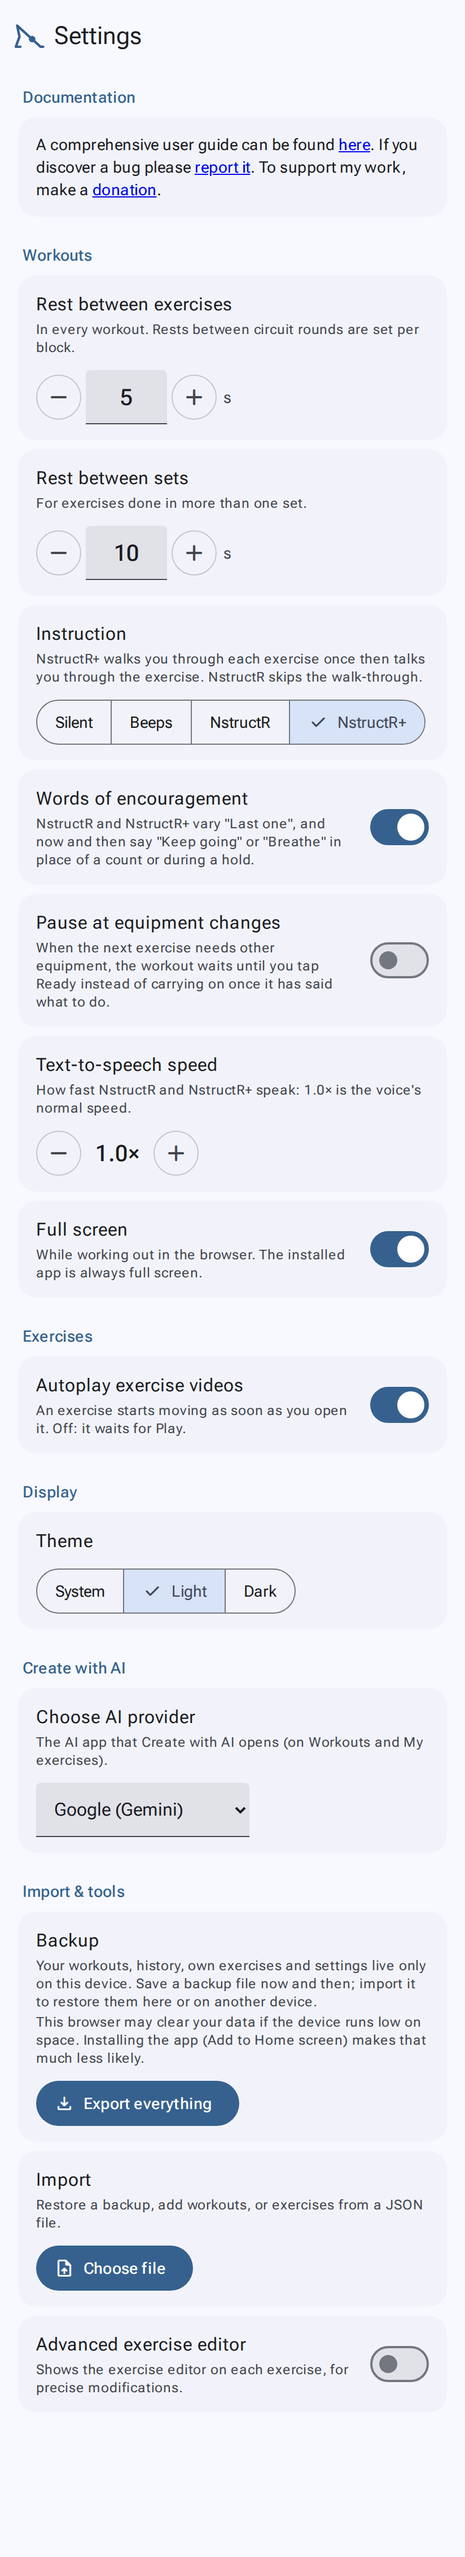
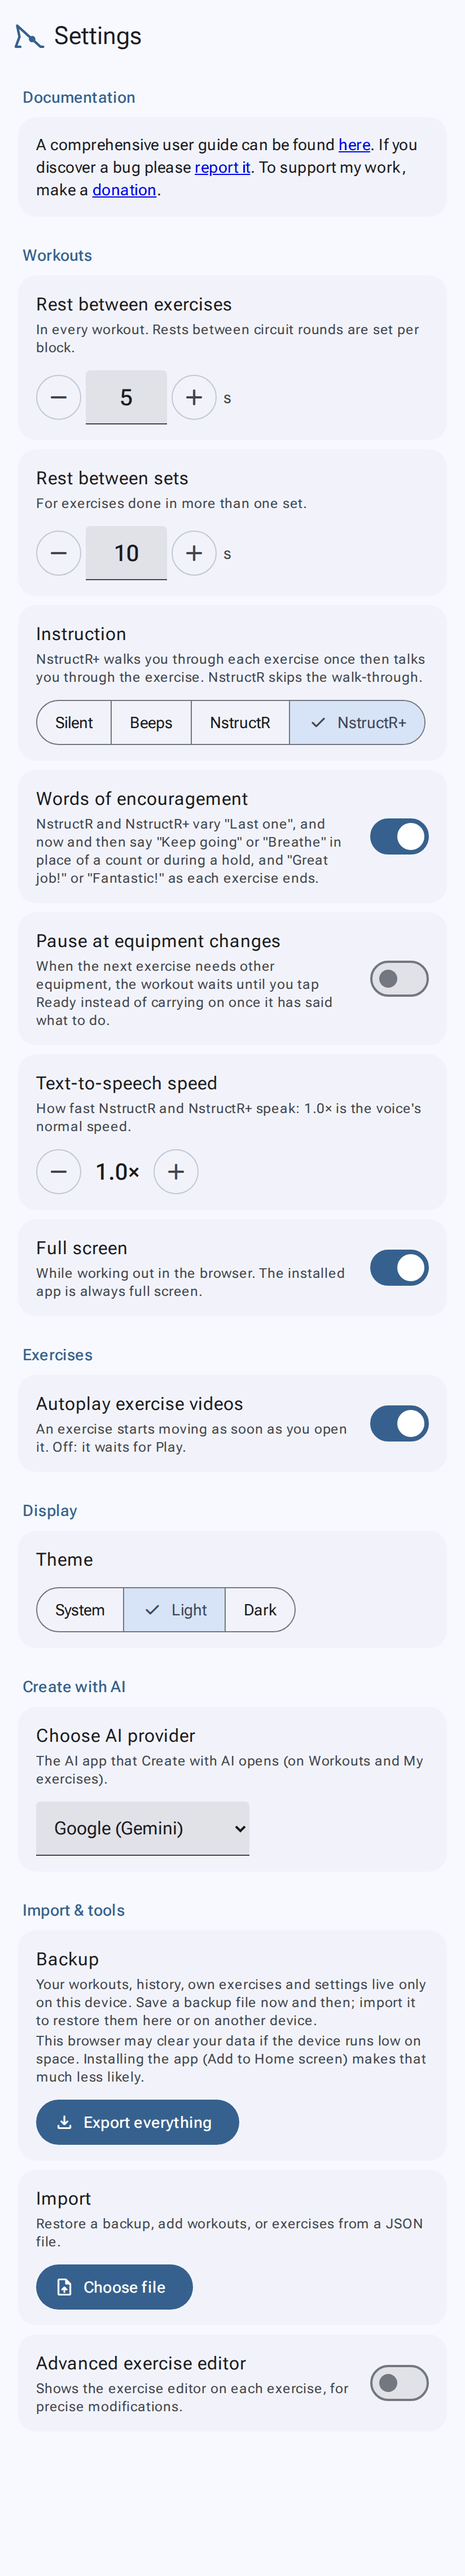
Words of encouragement: a finished phrase as each set ends
With words of encouragement on (NstructR / NstructR+), when a set's (or side's) last
animation is done and before the rest or the move to what's next: one of Great job! /
Fantastic! / Keep it up! / Finished! ("Last one. … Finished!"), never the same twice in
a row. Settings help text, wiki, HANDOFF, settings screenshot; encouragement.py checks
the phrase comes after the plan ends, and none when off.

Claude-Session: https://claude.ai/code/session_0133kyx5MPf8aRU2sQwm2BG7

diff --git a/src/body.html b/src/body.html
@@ -57,7 +57,7 @@
             <button class="icon-btn stateful" data-rest-key="sets" data-rest-delta="1" aria-label="More rest between sets"><span class="icon">add</span></button><span class="unit" aria-hidden="true">s</span></span></div>
         <div class="setting"><div class="txt"><span class="body-large">Instruction</span><span class="body-small muted">NstructR+ walks you through each exercise once then talks you through the exercise. NstructR skips the walk-through.</span></div>
           <div class="segmented" id="setSound" role="group" aria-label="Instruction"></div></div>
-        <label class="setting" id="setEncourageRow"><span class="txt"><span class="body-large">Words of encouragement</span><span class="body-small muted">NstructR and NstructR+ vary "Last one", and now and then say "Keep going" or "Breathe" in place of a count or during a hold.</span></span>
+        <label class="setting" id="setEncourageRow"><span class="txt"><span class="body-large">Words of encouragement</span><span class="body-small muted">NstructR and NstructR+ vary "Last one", and now and then say "Keep going" or "Breathe" in place of a count or during a hold, and "Great job!" or "Fantastic!" as each exercise ends.</span></span>
           <input type="checkbox" class="switch" id="setEncourage"></label>
         <label class="setting" id="setEquipPauseRow"><span class="txt"><span class="body-large">Pause at equipment changes</span><span class="body-small muted">When the next exercise needs other equipment, the workout waits until you tap Ready instead of carrying on once it has said what to do.</span></span>
           <input type="checkbox" class="switch" id="setEquipPause"></label>

diff --git a/src/app/4-workouts.js b/src/app/4-workouts.js
@@ -925,10 +925,11 @@ function runCurrent(announce) {
 }
 /* NstructR's and NstructR+'s words: "Ready… Begin." before the count (it starts at "1"; Oct 2026), varied when words of
    encouragement are on: a random "Last one", and now and then a word of encouragement in place of a count (never the
-   first or last) or of an alternating rep's "and", or every 10 s of a hold (never at halfway or in the last 10 s).
+   first or last) or of an alternating rep's "and", or every 10 s of a hold (never at halfway or in the last 10 s), and
+   a finished phrase as each set (and side) ends ("Last one. Finished!"; Oct 2026).
    WP.random can be replaced (tests). */
 const READY_BEGIN = 'Ready… Begin.';
-const COACH_WORDS = { last: ['Last one', 'One more', 'Last rep'], cheer: ['Good', 'Keep going', 'Breathe', 'Doing great'] };
+const COACH_WORDS = { done: ['Great job!', 'Fantastic!', 'Keep it up!', 'Finished!'], last: ['Last one', 'One more', 'Last rep'], cheer: ['Good', 'Keep going', 'Breathe', 'Doing great'] };
 const coachRandom = () => (WP.random || Math.random)();
 // a word isn't picked twice in a row for the same moment ("Good. Breathe. Good.", never "Good. Good.")
 const COACH_LAST = {};
@@ -965,6 +966,7 @@ function speakGuided(text) {
 }
 function onWorkEnd() {
   const cur = current(); if (!cur) return;
+  if (encourageOn() && (WK.sound === 'voice' || WK.sound === 'coach')) say(coachWord('done'));
   const segs = itemSegments(cur.item);
   if (WP.seg < segs.length - 1) { WP.seg++; beep(660, 160); return runCurrent(true); }
   WP.seg = 0;

diff --git a/tools/e2e/encouragement.py b/tools/e2e/encouragement.py
@@ -5,6 +5,8 @@ from playwright.async_api import async_playwright
 # NstructR's and NstructR+'s words of encouragement (Settings > Instruction > NstructR or NstructR+ > Words of encouragement, on at first):
 # the count starts at "1" (after "Ready… Begin.", never varied; Oct 2026), "Last one" from its synonyms; a count (never the first or last) replaced 20% of the time, 10% for the
 # rep after one that was (until one isn't); during a hold, every 10 s a 40% chance, never at halfway or in the last 10 s.
+# As each set (and side) ends, a finished phrase: Great job! / Fantastic! / Keep it up! / Finished! (on only).
+# As each set (and side) ends, after its last animation: Great job! / Fantastic! / Keep it up! / Finished! (on only).
 # An alternating rep's other half says "and" ("1 and 2 and 3"), which a cheer can replace too.
 # A word is never the same as the last one picked for that moment. Off: the plain words. WP.random is stubbed.
 SAY = "window.SAID = []; say = t => { if (WK.sound === 'voice' || WK.sound === 'coach') SAID.push(t); return Promise.resolve(); }; renderWpCount = renderWpCount;"
@@ -55,5 +57,25 @@ async def main():
         await pg.evaluate("setPref(ENCOURAGE_KEY, 'off')")
         print('off: hold               ', await hold(0), '<- Halfway and 10 seconds only')
         print('off: reps               ', await reps('[0.05]'), '<- 1, numbers, Last one')
+        # a finished phrase as each set (and side) ends, on only: "Last one. Finished!"
+        async def done(on):
+            await pg.evaluate(f"""(() => {{ hush(); WP.phase = 'done'; setPref(ENCOURAGE_KEY, '{on}'); WP.random = () => 0.5; SAID.length = 0;
+              WK.list = WK.list.filter(w => w.id !== 'd'); WK.list.push({{ id: 'd', name: 'D', blocks: [{{ id: 'b', name: 'B', items: [{{ ...newItem(exById('core-dead-bug')), reps: 2, sides: 'both' }}] }}] }});
+              saveWorkouts(); startWorkout(wkById('d'), 0); S.speed = 20; }})()""")
+            await pg.wait_for_function("WP.phase === 'done'", timeout=60000)
+            return await pg.evaluate("SAID.filter(t => !/^(Ready|Dead Bug|[0-9]|and$)/.test(t))")
+        print('finished phrase, on     ', await done('on'), "<- ['Last …', 'Great job!' / 'Fantastic!' / 'Keep it up!' / 'Finished!', 'Switch sides…', 'Last …', another one, 'Workout complete. Well done.']")
+        print('finished phrase, off    ', await done('off'), "<- no phrase: ['Last one', 'Switch sides…', 'Last one', 'Workout complete. Well done.']")
+        # a finished phrase as each set (and side) ends: when its last animation is over, before any move to what's next
+        # (on only): "Last one. … Finished!"
+        async def done(on):
+            await pg.evaluate(f"""(() => {{ hush(); WP.phase = 'done'; setPref(ENCOURAGE_KEY, '{on}'); WP.random = () => 0.5; SAID.length = 0;
+              const keep = say; window.WHEN = []; say = (t, o) => {{ WHEN.push([t, S.ex && S.ex.id, S.idx, S.resolved.length, S.planDone, WP.phase]); return keep(t, o); }};
+              WK.list = WK.list.filter(w => w.id !== 'd'); WK.list.push({{ id: 'd', name: 'D', blocks: [{{ id: 'b', name: 'B', items: [{{ ...newItem(exById('core-dead-bug')), reps: 2, sides: 'both' }}] }}] }});
+              saveWorkouts(); startWorkout(wkById('d'), 0); S.speed = 20; }})()""")
+            await pg.wait_for_function("WP.phase === 'done'", timeout=60000)
+            return await pg.evaluate("WHEN.filter(w => /!$/.test(w[0])).map(w => [w[0], 'plan over: ' + (w[4] && w[2] === w[3] - 1)])")
+        print('finished phrase, on     ', await done('on'), "<- 2 of Great job! / Fantastic! / Keep it up! / Finished!, each 'plan over: True' (after the last animation)")
+        print('finished phrase, off    ', await done('off'), "<- [] (Workout complete. Well done. only)")
         print('errors', errs); await b.close()
 asyncio.run(main())

diff --git a/HANDOFF.md b/HANDOFF.md
@@ -1014,7 +1014,7 @@ the app fills in the `device` field (user agent, screen size, installed app or b
 | `nstructr-exmute-v1` | the exercise page's spoken cues muted unless `"off"` (default muted since Sep 2026; overlay Mute toggle; the voice also needs Sound = NstructR/NstructR+) |
 | `nstructr-group-collections-v1` | `"on"`: the Exercises tab groups All collections by collection; otherwise one A–Z list (default since Sep 2026; the tab's own switch) |
 | `nstructr-speech-rate-v1` | text-to-speech speed, 0.5–3 (steps of 0.1; default 1): `SpeechSynthesisUtterance.rate` for NstructR and NstructR+ (Settings > Workouts, under Instruction; in the backup's `settings.speechRate`) |
-| `nstructr-encourage-v1` | NstructR's and NstructR+'s words of encouragement, `on`/`off` (default on; Settings > Workouts, under Instruction, shown with NstructR and NstructR+ (NstructR+ only until Oct 2026); `COACH_WORDS` in `src/app/4-workouts.js`: synonyms for Last one (rep 1 is always "1", after "Ready… Begin."; Oct 2026), a cheer for 20% of middle counts and of an alternating rep's "and" (the other side's half: "1 and 2 and 3", Oct 2026) (10% for the rep after one that cheered, until one doesn't: `repCheer()`, `WP.cheered`) and 40% of a hold's 10-second marks, not near halfway or in the last 10 s; never the word picked last time for the same moment (`COACH_LAST`); the backup's `settings.encourage`) |
+| `nstructr-encourage-v1` | NstructR's and NstructR+'s words of encouragement, `on`/`off` (default on; Settings > Workouts, under Instruction, shown with NstructR and NstructR+ (NstructR+ only until Oct 2026); `COACH_WORDS` in `src/app/4-workouts.js`: synonyms for Last one (rep 1 is always "1", after "Ready… Begin."; Oct 2026), a cheer for 20% of middle counts and of an alternating rep's "and" (the other side's half: "1 and 2 and 3", Oct 2026); as each set and side ends (`onWorkEnd`: its last animation done, before the rest or the move on), a finished phrase, `done`: Great job! / Fantastic! / Keep it up! / Finished! (on only, Oct 2026) (10% for the rep after one that cheered, until one doesn't: `repCheer()`, `WP.cheered`) and 40% of a hold's 10-second marks, not near halfway or in the last 10 s; never the word picked last time for the same moment (`COACH_LAST`); the backup's `settings.encourage`) |
 | `nstructr-equip-pause-v1` | "Pause at equipment changes", `on`/`off` (default off; Settings > Workouts, under Words of encouragement; the backup's `settings.equipPause`): at an equipment change, and at the workout title card, the rest waits for Ready instead of counting down (§8.3c) |
 | `nstructr-equip-time-v1` | retired (Oct 2026): Equipment transition time, a setting for a day; now the time is what it takes to say what to do (§8.3c). A stored value is ignored |
 | `nstructr-autoplay-v1` | `"off"`: exercises wait for Play when opened (Settings > Exercises; reduced motion also stops autoplay) |

diff --git a/wiki/Settings.md b/wiki/Settings.md
@@ -30,8 +30,10 @@ by the exercise page (NstructR and NstructR+ read each step's cue once, then cou
 Shown with **NstructR** and **NstructR+** (on at first). They vary their words: **Last one**,
 **One more** or **Last rep** for the last rep; and now and then **Good**, **Keep going**, **Breathe** or **Doing
 great**: in place of about 1 in 5 counts (never the first or the last; the "and" of an alternating rep counts too; 1 in 10 right after a count that was replaced),
-and every 10 seconds of a hold, 4 times in 10 (never at halfway or in the last 10 seconds). The same word is never
-used twice in a row ("Good. Breathe. Good.", not "Good. Good."). Off: the numbers and "Last one". Either way the count starts with "Ready… Begin." and "1".
+and every 10 seconds of a hold, 4 times in 10 (never at halfway or in the last 10 seconds). As each set (and each side)
+ends, once its last move is done and before anything else, one of **Great job!**, **Fantastic!**, **Keep it up!** or
+**Finished!** ("Last one. … Finished!"). The same word is never
+used twice in a row ("Good. Breathe. Good.", not "Good. Good."). Off: the numbers and "Last one", and nothing as an exercise ends. Either way the count starts with "Ready… Begin." and "1".
 
 ### Pause at equipment changes
 
